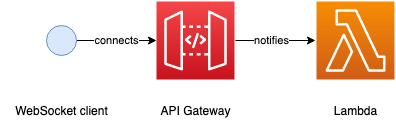
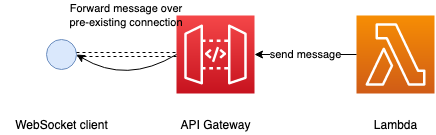
Preparing exercise 2.

diff --git a/src/connection.ts b/src/connection.ts
@@ -1,4 +1,5 @@
 import { APIGatewayProxyEvent, APIGatewayProxyHandler } from 'aws-lambda';
+import { ApiGatewayManagementApi } from 'aws-sdk';
 
 export const onConnect: APIGatewayProxyHandler = async (
     event: APIGatewayProxyEvent
@@ -9,6 +10,12 @@ export const onConnect: APIGatewayProxyHandler = async (
 
     return emptyOkResponse;
 };
+
+const initApiGatewayManagementApi = (event: APIGatewayProxyEvent) => new ApiGatewayManagementApi({
+        apiVersion: '2018-11-29',
+        endpoint:
+            event.requestContext.domainName + '/' + event.requestContext.stage
+    });
 
 const emptyOkResponse = {
     statusCode: 200,

diff --git a/README.md b/README.md
@@ -1,59 +1,31 @@
 # WebSockets Lambda Workshop
 
-### Exercise 1: Setup a WebSockets connection
+### Exercise 2: Send messages from our Lambda back to the WebSocket client
 
-In this exercise we'll enable [WebSocket](https://en.wikipedia.org/wiki/WebSocket) clients to establish connections to [API Gateway](https://aws.amazon.com/api-gateway/). On connection a [Lambda](https://aws.amazon.com/lambda/) will be notified.
+In this exercise we'll send a message from our Lambda back to the WebSocket client.
 
 ![Exercise diagram](exercise-diagram.png)
 
-#### Getting up and running
+#### Identifying the connection
 
-From the terminal run `npm ci` to install project dependencies.
+At any given time a WebSocket API could be maintaining multiple open connections.
 
-Next navigate to our barebones `serverless.yml` file in the project root.
+![Multiple connections diagram](multiple-connections-diagram.png)
 
-Start by adding a `websocketsApiName` entry to the provider declaration:
+In order for our Lambda to send a message to the right recipient, we need to tell API Gateway which connection we want it to forward the message on to.
 
-```yaml
-websocketsApiName: ws-lambda-workshop-api
-```
+API Gateway makes the unique id for a connection available in the request context whenever a Lambda is triggered by a WebSocket event.
 
-This simply tells Serverless that you want API Gateway to provision a [WebSocket API](https://docs.aws.amazon.com/apigateway/latest/developerguide/apigateway-websocket-api.html).
+#### Over to you
 
-Next add the following Lambda definition under `functions`:
+Take a look at our existing `onConnect` handler. At the moment a client connects, can you send them back a greeting?
 
-```yaml
-onConnect:
-    handler: src/connection.onConnect
-    events:
-        -   websocket: $connect
-```
-
-The `events` block indicates that this Lambda will be invoked by a WebSocket event, namely when a client connects.
-
-The `$connect` label is a [route](https://docs.aws.amazon.com/apigateway/latest/developerguide/websocket-api-develop-routes.html) instruction for API Gateway. There are three predefined routes for API Gateway:
- * `$connect`
- * `$disconnect`
- * `$default`
-
-It's also possible to add your own routing rules.
-
-Our `onConnect` Lambda configuration tells API Gateway that when a WebSocket client connects, the `connection.onConnect` function should be invoked.
-
-Take a look inside `connection.ts` under the `src` folder and you'll see a rudimentary connection handler.
+There's an `initApiGatewayManagementApi` function that might be useful, these [docs](https://docs.aws.amazon.com/AWSJavaScriptSDK/latest/AWS/ApiGatewayManagementApi.html#postToConnection-property) should also help.
 
 #### Ship it!
 
-From the terminal run `npx serverless deploy`. Within a couple of minutes you should have a WebSocket API created under API Gateway, and a Lambda deployed to handle connection events.
+Once you're done, try redeploying your Lambda by running `npx serverless deploy`.
 
-If you inspect your API using the [aws cli](https://aws.amazon.com/cli/) by running `aws apigatewayv2 get-apis`, the `ProtocolType` should confirm it is indeed a WebSocket API.
+This time when you use `wscat` to connect, you should see your welcome message.
 
-#### Let's connect!
-
-Using the endpoint printed to the console when you deployed with Serverless, try establishing a WebSocket connection with `wscat`:
-
-```wscat -c wss://<your-api-id>.execute-api.eu-west-1.amazonaws.com/dev```
-
-If everything worked, you should see a message telling you you've connected. Good job!
-
-(If you try to send a message from the WebSocket client you'll receive an error. We'll address that in a later exercise).
+Writing to the right connection - that was a rite of passage!
